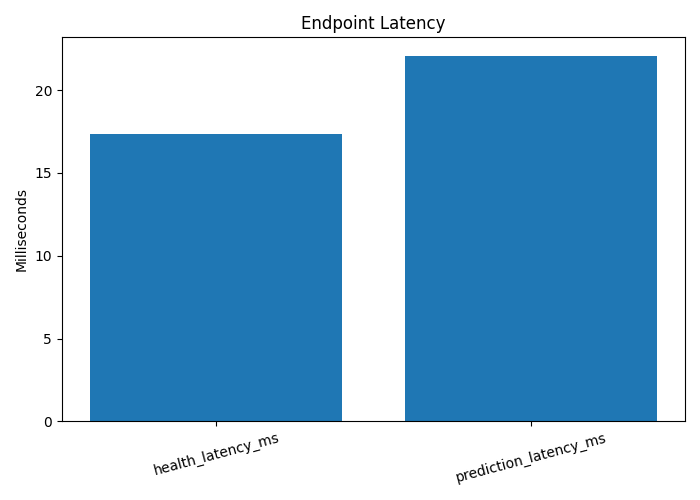
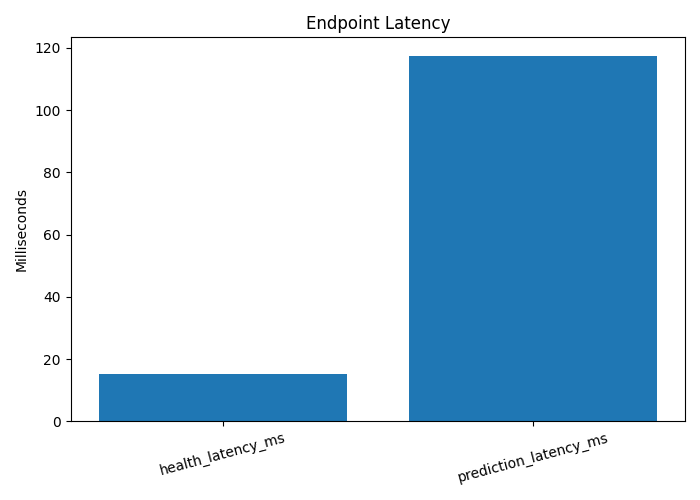
add commit to trigger cicd

diff --git a/README.md b/README.md
@@ -34,5 +34,5 @@ Flask Inference Endpoint
       ↓
 Monitoring & Feedback Loop
 
-## CI/CD Demo Trigger 1
+## CI/CD Demo Trigger 2
 Pipeline validation rerun.